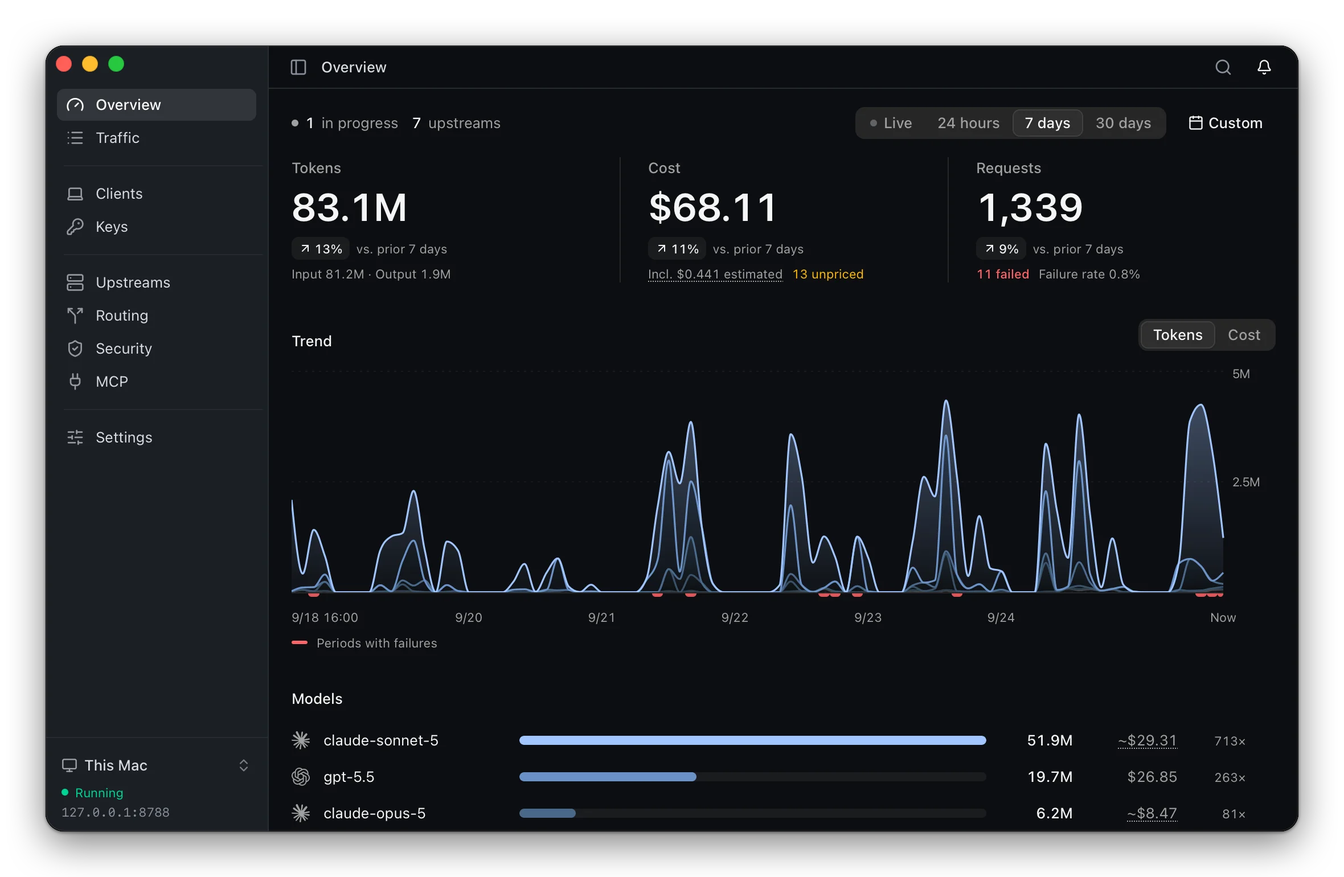
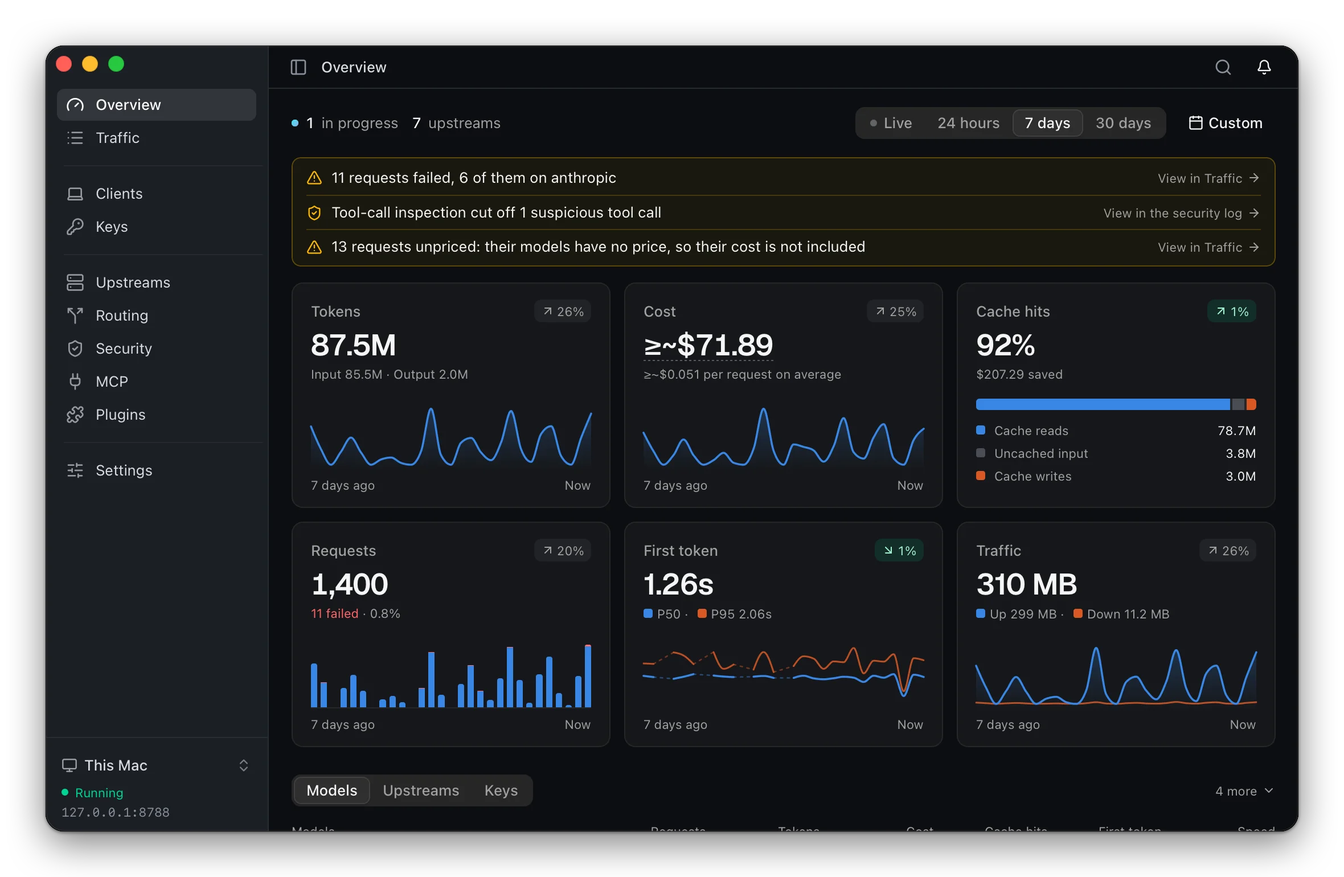
Docs for Lite 2026.10.12, core 0.68.0 and ThinkWatch 3.3.1 (#68)
* Docs for Lite 2026.10.12 and core 0.68.0

- Features (en, zh-CN): the Overview's six cards (Tokens, Cost, Cache
  hits, Requests, First token, Traffic) with their changes against the
  previous period and synced charts, the strip of what needs attention,
  and the table by model, upstream or key; upload and download on the
  Traffic table's tokens and Egress, Upload and Download in a request's
  timeline; the Content tab's live Parsed and Raw views with the client
  and upstream sides and the security hits marked; the Proxies tab's
  Traffic · 24 h column; requests in flight on the routing map; security
  log entries that open in place with every location, the rule as it
  was and what was done, export as JSON or CSV, and expiry with the
  request records; the menu bar's cost written like the token count.
- Overview (en, zh-CN): the Overview row of the pages table.
- Relay guide (en, zh-CN): an opened log entry shows the placeholder or
  the cut-off tool call.
- Lite page: the overview and traffic tiles follow the new Overview and
  the live content.

* Lite screenshots: the new Overview, and the menu bar's cost written like the token count

The overview, menu bar and connection switcher images come from Lite's
screenshot pipeline at 2026.10.12; their alt texts describe what they show.

* Lite menu bar: the cost is written $9.34

* Core docs from v0.68.0

The configuration reference and the server guide are unchanged since
v0.67.1; the snapshot now names v0.68.0.
[…]

diff --git a/src/i18n/pages/lite.ts b/src/i18n/pages/lite.ts
@@ -12,9 +12,9 @@
 // alt text changes with it.
 
 const overviewAlt = {
-  en: "The Overview page for the last 7 days: 83.1M tokens, $68.11 in cost including $0.441 estimated and 13 unpriced requests, and 1,339 requests of which 11 failed, each compared with the prior 7 days; a token trend stacked by model with the periods that had failures marked; and the models ranked by tokens",
+  en: "The Overview page for the last 7 days: notices that 11 requests failed, a suspicious tool call was cut off and 13 requests are unpriced; cards for 87.5M tokens, a cost of at least about $71.89, 92% cache hits, 1,400 requests, a 1.26 s median first token and 310 MB of traffic, each with the change against the prior 7 days and a chart or breakdown; and the statistics by model below",
   "zh-CN":
-    "概览页（最近 7 天）：token 83.1M、费用 $68.11（含估算 $0.441，13 条无法计价）、请求 1,339 次（失败 11 次），均与上一个 7 天对比；按模型分层的 token 趋势，并标出存在失败的时段；以及按 token 排序的模型列表",
+    "概览页（最近 7 天）：提示 11 次请求失败、切断了 1 个可疑工具调用、13 条请求无法计价；token 87.5M、费用不低于约 $71.89、缓存命中 92%、请求 1,400 次、首 token 中位数 1.26 秒、流量 310 MB 六张卡片，各带与上一个 7 天的对比和趋势图或构成；下方是按模型的统计",
 } as const;
 
 export const liteCopy = {
@@ -136,7 +136,7 @@ export const liteCopy = {
         {
           id: "traffic",
           title: "Every request, traceable",
-          body: "A request shows the rule it matched, each upstream it tried, any conversion between API formats and how its cost was calculated. A finished request can be replayed against another upstream and the two answers compared side by side, and the whole history can be searched, including the text of requests and answers.",
+          body: "A request shows the rule it matched, each upstream it tried, any conversion between API formats and how its cost was calculated, and its content can be read live while the answer streams. A finished request can be replayed against another upstream and the two answers compared side by side, and the whole history can be searched, including the text of requests and answers.",
           alt: "The Traffic page: each request with its key, model, upstream, time to first token, total time, tokens and cost, with marks for converted formats, redacted keys and a blocked request, and one request answered locally by the gateway",
         },
         {
@@ -154,7 +154,7 @@ export const liteCopy = {
         {
           id: "overview",
           title: "Costs stated as they are",
-          body: "Tokens, cost, cache savings, time to first token and generation speed, by model and by upstream. Estimated amounts are marked, and requests without a price are counted separately instead of as zero; prices follow LiteLLM's public list, refreshed daily, or a custom price sheet.",
+          body: "Tokens, cost, cache hits, requests, time to first token and traffic on one screen, each against the previous period and broken down by model, upstream or key. Estimated amounts are marked, and requests without a price are counted separately instead of as zero; prices follow LiteLLM's public list, refreshed daily, or a custom price sheet.",
           alt: overviewAlt.en,
         },
         {
@@ -209,7 +209,7 @@ export const liteCopy = {
         "A system notification reports a gateway that stopped forwarding, a lost remote connection, a quota that ran out, a credential that stopped working, an unreachable proxy, configuration that did not take effect, a dangerous tool call that was cut off, and suspicious content in client configuration.",
       chipAlt: "The menu bar item: the ThinkWatch mark with today's 13.3M tokens above today's cost, $9.34",
       menuAlt:
-        "The menu bar menu: the gateway's address, output speed and state; the ChatGPT account's 5-hour and weekly quotas with their reset times; today's requests, tokens and cost; the request in progress; and items to open the app, copy the gateway address or the default key, switch connection, open settings and check for updates",
+        "The menu bar menu: an item to open ThinkWatch Lite; today's 13.3M tokens, 204 requests of which 4 failed and $9.34, with the gateway's state and output speed; the ChatGPT account's 5-hour and weekly quotas with their reset times; the request in progress; and items to copy the gateway address or the default key, open settings, switch connection, check for updates and quit",
     },
     built: {
       eyebrow: "Architecture",
@@ -379,7 +379,7 @@ export const liteCopy = {
         {
           id: "traffic",
           title: "每个请求都可追溯",
-          body: "请求详情给出命中的规则、尝试过的每个上游、API 格式转换，以及费用的计算依据。已结束的请求可以重放到另一个上游，并排对比两次回答；全部请求记录都可以搜索，包括请求与回答的内容。",
+          body: "请求详情给出命中的规则、尝试过的每个上游、API 格式转换，以及费用的计算依据，回答生成期间即可实时查看请求与回答的内容。已结束的请求可以重放到另一个上游，并排对比两次回答；全部请求记录都可以搜索，包括请求与回答的内容。",
           alt: "流量页：逐条列出请求的密钥、模型、上游、首 token 时间、总耗时、token 与费用，标出格式转换、密钥脱敏与被拦截的请求，其中一条由网关在本地应答",
         },
         {
@@ -397,7 +397,7 @@ export const liteCopy = {
         {
           id: "overview",
           title: "费用如实计算",
-          body: "按模型与上游统计 token、费用、缓存节省、首 token 时间与生成速度。估算的金额单独标注，无法计价的请求单独计数，不按零计入；价格每日按 LiteLLM 公开价更新，也可以使用自定义价目表。",
+          body: "token、费用、缓存命中、请求、首 token 时间与流量集中在一屏，均与上一个区间对比，并可按模型、上游或密钥查看明细。估算的金额单独标注，无法计价的请求单独计数，不按零计入；价格每日按 LiteLLM 公开价更新，也可以使用自定义价目表。",
           alt: overviewAlt["zh-CN"],
         },
         {
@@ -451,7 +451,7 @@ export const liteCopy = {
         "网关停止转发、远程连接断开、额度用完、凭据失效、代理无法连接、配置未能生效、危险工具调用被切断，以及客户端配置中出现可疑内容时，应用发送系统通知。",
       chipAlt: "菜单栏：ThinkWatch 标识，右侧上行为今日 token 13.3M，下行为今日费用 $9.34",
       menuAlt:
-        "菜单栏菜单：网关地址、输出速率与状态；ChatGPT 账号的 5 小时与每周额度及重置时间；今日请求数、token 与费用；进行中的请求；以及打开主界面、复制网关地址、复制默认密钥、切换连接、设置与检查更新等菜单项",
+        "菜单栏菜单：打开主界面；今日 token 13.3M、请求 204 次（失败 4 次）、费用 $9.34，以及网关状态与输出速率；ChatGPT 账号的 5 小时与每周额度及重置时间；进行中的请求；以及复制网关地址、复制默认密钥、设置、切换连接、检查更新与退出等菜单项",
     },
     built: {
       eyebrow: "架构",

diff --git a/src/i18n/pages/home.ts b/src/i18n/pages/home.ts
@@ -91,7 +91,7 @@ export const homeCopy = {
       ],
       pills: ["Available", "macOS (Apple silicon)", "Windows (x64, ARM64)", "Linux (x86_64, aarch64)"],
       shotAlt:
-        "The Overview page for the last 7 days: 83.1M tokens, $68.11 in cost including $0.441 estimated and 13 unpriced requests, and 1,339 requests of which 11 failed, each compared with the prior 7 days; a token trend stacked by model with the periods that had failures marked; and the models ranked by tokens",
+        "The Overview page for the last 7 days: notices that 11 requests failed, a suspicious tool call was cut off and 13 requests are unpriced; cards for 87.5M tokens, a cost of at least about $71.89, 92% cache hits, 1,400 requests, a 1.26 s median first token and 310 MB of traffic, each with the change against the prior 7 days and a chart or breakdown; and the statistics by model below",
       cta: "Explore ThinkWatch Lite",
     },
     core: {
@@ -219,7 +219,7 @@ export const homeCopy = {
       ],
       pills: ["已发布", "macOS（Apple silicon）", "Windows（x64、ARM64）", "Linux（x86_64、aarch64）"],
       shotAlt:
-        "概览页（最近 7 天）：token 83.1M、费用 $68.11（含估算 $0.441，13 条无法计价）、请求 1,339 次（失败 11 次），均与上一个 7 天对比；按模型分层的 token 趋势，并标出存在失败的时段；以及按 token 排序的模型列表",
+        "概览页（最近 7 天）：提示 11 次请求失败、切断了 1 个可疑工具调用、13 条请求无法计价；token 87.5M、费用不低于约 $71.89、缓存命中 92%、请求 1,400 次、首 token 中位数 1.26 秒、流量 310 MB 六张卡片，各带与上一个 7 天的对比和趋势图或构成；下方是按模型的统计",
       cta: "了解 ThinkWatch Lite",
     },
     core: {

diff --git a/src/content/docs-lite/en/features.md b/src/content/docs-lite/en/features.md
@@ -6,7 +6,9 @@ The main window has ten pages: Overview, Traffic, Clients, Keys, Upstreams, Rout
 
 ## Usage and cost
 
-The Overview page reports tokens, cost and requests for the last 24 hours, 7 days, 30 days or a custom range, each against the period before; a live view follows the last ten minutes. A trend chart stacks tokens or cost by model, and the model ranking beneath it opens the matching requests. Further sections cover the prompt cache (hit rate, the net savings it brought and the hit rate per model), latency (median and 95th-percentile time to first token, per model and per upstream), generation speed (median tokens per second, per model and per upstream) and what each protection found.
+The Overview page covers the last 24 hours, 7 days, 30 days or a custom range on one screen of six cards: **Tokens**, **Cost**, **Cache hits**, **Requests**, **First token** and **Traffic**. Each card gives its figure and the change against the previous period of the same length. All but Cache hits carry a small chart of the period; hovering any chart shows the same point in time on every chart, and the value appears on the card under the pointer. **Cache hits** shows the hit rate, the net savings the cache brought, and how input was split between cache reads, uncached input and cache writes. **First token** charts the median and the 95th percentile of the time to first token, and stretches without requests are bridged with a faint dashed line. **Traffic** is what requests sent to their upstreams and received from them (see [Traffic and sessions](#traffic-and-sessions)), with upload and download charted separately.
+
+A strip above the cards lists what needs attention: failed requests, tool calls that were cut off, upstreams that cannot be used (circuit open, credentials rejected or sign-in required), and unpriced requests, each with a link to the page that deals with it. It is hidden when there is nothing to list. The table below the cards lists the requests, tokens, cost, cache hits, first token and generation speed by model, upstream or key (generation speed by model and by upstream only), and a row opens the matching requests in Traffic. In **Live**, the Tokens, Cost and Requests cards follow the last ten minutes, while the other cards, the strip and the table cover the last 24 hours.
 
 The cost figure states how much of it is estimated, for instance for a response that was cut off before it finished. Requests whose model has no price, and requests whose upstream reported no usage, are counted separately and never added in as zero. Prices come from price sheets: the default one follows LiteLLM's public prices and is refreshed once a day, and a custom one applies a multiplier and its own prices for particular models, as needed for a relay whose prices differ from the official ones. A subscription account such as a ChatGPT sign-in is priced from the price sheet like any other upstream, and an upstream such as a local model can be set to free. Each request's cost is fixed when the request finishes, and the request records the price sheet and the date of the prices it was costed with.
 
@@ -14,9 +16,11 @@ Until the first request has gone to an upstream, the Overview page shows a get-s
 
 ## Traffic and sessions
 
-The Traffic page lists requests as they arrive: status, key, model, upstream, time to first token and total time (with the generation speed on hover), tokens and cost, with marks for a converted API format, redacted keys, text deleted by the content filter and a blocked or suspicious tool call. Long upstream, model and key names are cut short, and hovering shows them in full. The list can be searched (path, key, upstream, model and error message), filtered by key, upstream and model, or narrowed to failed or unpriced requests. It holds the latest 2,000 requests, and a search or filter also runs over the stored history, further back on request. With content search on, it also covers what each request newly sent (the last user turn, tool results included) and its answer (tool calls included), for as long as payloads are kept; a match shows its excerpt under the request. The Sessions view groups the requests of one conversation into turns, with the input tokens and the cost of each turn. A session's Conversation tab replays it turn by turn: the messages each turn added and its answer, with text, folded thinking, tool calls beside their results, and images by type and size. Changes to the system prompt and restarts after compaction are marked, and a turn whose bodies are past retention, were too large to keep whole or cannot be read says so. Each turn opens its request.
+The Traffic page lists requests as they arrive: status, key, model, upstream, time to first token and total time (with the generation speed on hover), tokens (with the upload and download on hover) and cost, with marks for a converted API format, redacted keys, text deleted by the content filter and a blocked or suspicious tool call. Long upstream, model and key names are cut short, and hovering shows them in full. The list can be searched (path, key, upstream, model and error message), filtered by key, upstream and model, or narrowed to failed or unpriced requests. It holds the latest 2,000 requests, and a search or filter also runs over the stored history, further back on request. With content search on, it also covers what each request newly sent (the last user turn, tool results included) and its answer (tool calls included), for as long as payloads are kept; a match shows its excerpt under the request. The Sessions view groups the requests of one conversation into turns, with the input tokens and the cost of each turn. A session's Conversation tab replays it turn by turn: the messages each turn added and its answer, with text, folded thinking, tool calls beside their results, and images by type and size. Changes to the system prompt and restarts after compaction are marked, and a turn whose bodies are past retention, were too large to keep whole or cannot be read says so. Each turn opens its request.
 
-A request opens into its timeline, its routing (the rule it matched, the group it went through and each attempt with its status and duration), the request and response bodies, and its usage and cost. A request from DeepSeek Harness also shows the size of the session log it carried, the whole conversation the client attaches to every request; the gateway removes it before a request goes to an upstream other than DeepSeek. A finished request can be sent again, unchanged, to another upstream after an estimate of its cost, and the two responses are shown side by side.
+A request opens into its timeline, its routing (the rule it matched, the group it went through and each attempt with its status and duration), its content, and its usage and cost. The timeline gives the proxy the request went out through (**Egress**, or **Direct**) and how much it sent to its upstreams and received from them (**Upload** and **Download**), measured as it crossed the network: after the gateway's own compression, before decoding, and summed over failover attempts. A request from DeepSeek Harness also shows the size of the session log it carried, the whole conversation the client attaches to every request; the gateway removes it before a request goes to an upstream other than DeepSeek. A finished request can be sent again, unchanged, to another upstream after an estimate of its cost, and the two responses are shown side by side.
+
+The **Content** tab has two views, **Parsed** and **Raw**, and both are live while the request runs. **Parsed** shows the conversation, with the answer appearing as it streams, thinking and tool-call arguments included. **Raw** shows the request and response lines, headers and bodies, with each streamed event appended as it arrives; **Follow latest** keeps the newest in view. In Raw, **Client side** and **Upstream side** show what the client and the upstream each exchanged with the gateway, which differ when the API format is converted or a plugin rewrites the request. Keys are replaced in both views, as in stored requests. The places a security rule matched are marked in both views, in the colors of the security log, and a folded part that holds one carries a dot.
 
 The attempts also show an upstream passed over at its concurrency limit (**At its concurrency limit**), the time spent waiting for a free slot, an upstream given up because it sent no content within the no-response timeout (**No response · 300 s** at the default), with the input tokens that upstream may have billed for it, and the attempt under way when a request was aborted (**Aborted**). A request refused by its key's usage limit, or because every upstream stayed at its concurrency limit, shows **Usage limit** or **At capacity** in place of an upstream, and a connection in the Responses API's WebSocket mode is listed one request per turn, each with its own usage and cost.
 
@@ -41,7 +45,7 @@ Usage limits keep one client from using up a budget: each caps the key at a numb
 
 ## Upstreams
 
-Upstreams are the services requests are forwarded to: API keys for Anthropic, OpenAI, Google Gemini, DeepSeek or any compatible endpoint, Amazon Bedrock (with an API key, access keys or an AWS profile), a ChatGPT account or a Z.ai / BigModel account signed in from the app, relays such as OpenRouter, and local models such as Ollama. A ChatGPT account shows its usage limits and reset times. So does an upstream on a GLM Coding Plan, that is, one whose address is on `api.z.ai` or `open.bigmodel.cn`, whether it was signed in from the app or added with a key: its 5-hour and weekly limits and, on a plan billed in credits, the credits left (“1,976 / 2,000 credits left”). When a client and an upstream use different API formats, requests are converted between Anthropic Messages, OpenAI Chat Completions, OpenAI Responses and Gemini, and the fields that cannot be carried over are listed on the request. Clients such as Codex mark no prompt-cache breakpoints; when their requests are converted for an upstream in Anthropic Messages format, or for a Claude model on Bedrock that AWS lists for prompt caching (Claude 3.5 Sonnet v2, Claude 3.7 Sonnet, and Claude 4.5 and later), the gateway marks them, so each turn reads what the previous one cached. An upstream that refuses the marks receives the request again without them. Upstreams can be reached through an outbound proxy and priced with a price sheet of their own; aliases, proxies and price sheets have tabs on the same page. An optional **Concurrency limit** suits relays and accounts that allow only so many requests at once: when the upstream is full, a conversation that stays on it waits for a free slot, other requests go to the next upstream, and when every upstream is full a request waits and then receives a busy error. **Specs…** in an upstream's model list sets by hand a model's context window, maximum output, and whether it reasons and takes images, for a model the price table lacks or gets wrong; the values set there are used in place of the price table's. A connection test times the DNS lookup and the TCP, TLS and proxy handshakes without incurring any cost; an inference test measures the time to first token and estimates its cost before it runs.
+Upstreams are the services requests are forwarded to: API keys for Anthropic, OpenAI, Google Gemini, DeepSeek or any compatible endpoint, Amazon Bedrock (with an API key, access keys or an AWS profile), a ChatGPT account or a Z.ai / BigModel account signed in from the app, relays such as OpenRouter, and local models such as Ollama. A ChatGPT account shows its usage limits and reset times. So does an upstream on a GLM Coding Plan, that is, one whose address is on `api.z.ai` or `open.bigmodel.cn`, whether it was signed in from the app or added with a key: its 5-hour and weekly limits and, on a plan billed in credits, the credits left (“1,976 / 2,000 credits left”). When a client and an upstream use different API formats, requests are converted between Anthropic Messages, OpenAI Chat Completions, OpenAI Responses and Gemini, and the fields that cannot be carried over are listed on the request. Clients such as Codex mark no prompt-cache breakpoints; when their requests are converted for an upstream in Anthropic Messages format, or for a Claude model on Bedrock that AWS lists for prompt caching (Claude 3.5 Sonnet v2, Claude 3.7 Sonnet, and Claude 4.5 and later), the gateway marks them, so each turn reads what the previous one cached. An upstream that refuses the marks receives the request again without them. Upstreams can be reached through an outbound proxy and priced with a price sheet of their own; aliases, proxies and price sheets have tabs on the same page. The **Traffic · 24 h** column of the **Proxies** tab gives the upload and download through each proxy over the last 24 hours, with 7 and 30 days on hover. An optional **Concurrency limit** suits relays and accounts that allow only so many requests at once: when the upstream is full, a conversation that stays on it waits for a free slot, other requests go to the next upstream, and when every upstream is full a request waits and then receives a busy error. **Specs…** in an upstream's model list sets by hand a model's context window, maximum output, and whether it reasons and takes images, for a model the price table lacks or gets wrong; the values set there are used in place of the price table's. A connection test times the DNS lookup and the TCP, TLS and proxy handshakes without incurring any cost; an inference test measures the time to first token and estimates its cost before it runs.
 
 An upstream's models are the ones it lists plus any added by hand. Upstreams often leave out models they serve: an account backend hides newer models, a relay lists only some. **Add models…** in an upstream's model list adds such models by their exact IDs, several at a time. An ID cannot contain `*` or `?` or have spaces around it, is at most 256 characters, and is added once; the dialog points out an ID that breaks these rules, or one the upstream already lists, before saving. A model added by hand is marked **Manual**, and routing and failover, aliases, routing rules that name a model, a key's allowed models, the model list clients see, the dry run and the speed test all treat it like a listed model. The summary at the top of the list counts the models the upstream lists apart from those added by hand. Hovering over a manual model shows **Remove**, which takes effect at once, with **Undo** in the message that follows. The **Models** section of the **New upstream** and **Edit upstream** dialogs ends with the same input, for an upstream with or without a list, so models can also be added while it is created or edited. They are saved with the rest of the upstream, and with **Selected models** a model added there is enabled at once. For an upstream that lists no models, the models added by hand are its whole list.
 
@@ -55,7 +59,7 @@ A relay or vendor can hand out an import link, `thinkwatch://import?…` or its 
 
 ## Routing and failover
 
-Each key follows a route, and keys without one follow the default route. A route is a list of rules evaluated in order. A rule matches on the model, the key, the client's API format, input tokens, `max_tokens`, the number of tools, images, extended thinking, streaming, prompt caching or the kind of auxiliary request; it then forwards the request to an upstream, a group or specified models, or refuses it, and can rewrite the model, `max_tokens` or extended thinking. Specified models name an upstream and one of its models, with backups tried in order, and send the model as written; to have one client use one model under another model's name, a rule on that client's key does it without changing what the name means for other clients. A model condition written for an upstream model also matches the aliases that list it. Setting `max_tokens` caps the length of answers: the upstream stops at that point by itself, without an error. A group puts several upstreams behind one name and decides the order in which they are tried: as listed, manually selected, in turn, lowest latency first or lowest cost first. In a round-robin group each member has a weight from 1 to 100, its long-run share of requests, and **Distribute by** can multiply the weights by each upstream's speed (time to first token), its reliability (recent success rate) or both; conversations in progress stay on their upstream. When an attempt fails, the request moves on to the next upstream, and by default a session stays on one upstream so that its prompt cache keeps hitting. An upstream that sends no content for the **No-response timeout** in Settings › Failover, 300 seconds by default, is given up on; keep-alive pings do not count as content. Before anything has reached the client, the request moves to the next upstream, and when none is left the client receives a timeout error; once the answer has started, it ends with an error. A map at the top of the page traces every key through its route and groups to the upstreams.
+Each key follows a route, and keys without one follow the default route. A route is a list of rules evaluated in order. A rule matches on the model, the key, the client's API format, input tokens, `max_tokens`, the number of tools, images, extended thinking, streaming, prompt caching or the kind of auxiliary request; it then forwards the request to an upstream, a group or specified models, or refuses it, and can rewrite the model, `max_tokens` or extended thinking. Specified models name an upstream and one of its models, with backups tried in order, and send the model as written; to have one client use one model under another model's name, a rule on that client's key does it without changing what the name means for other clients. A model condition written for an upstream model also matches the aliases that list it. Setting `max_tokens` caps the length of answers: the upstream stops at that point by itself, without an error. A group puts several upstreams behind one name and decides the order in which they are tried: as listed, manually selected, in turn, lowest latency first or lowest cost first. In a round-robin group each member has a weight from 1 to 100, its long-run share of requests, and **Distribute by** can multiply the weights by each upstream's speed (time to first token), its reliability (recent success rate) or both; conversations in progress stay on their upstream. When an attempt fails, the request moves on to the next upstream, and by default a session stays on one upstream so that its prompt cache keeps hitting. An upstream that sends no content for the **No-response timeout** in Settings › Failover, 300 seconds by default, is given up on; keep-alive pings do not count as content. Before anything has reached the client, the request moves to the next upstream, and when none is left the client receives a timeout error; once the answer has started, it ends with an error. A map at the top of the page traces every key through its route and groups to the upstreams, and requests in flight move along their path from the key to the upstream.
 
 Auxiliary requests that clients send on their own (health checks, warm-ups, titles, topic detection and input suggestions) can be answered locally at no cost, or forwarded. Forwarded ones go through the routing rules like any other request, and a rule can send a given kind to a lower-cost upstream.
 
@@ -70,6 +74,8 @@ The Security page holds three protections: outbound redaction, tool-call inspect
 - **Content filter** checks the user messages and tool results in each request, context compaction included. A rule matches a keyword, a regular expression or code points such as `U+E0000–U+E007F`, and in Enforce mode it refuses the request, deletes the matched text and sends the rest, or only records. Built-in rules delete Unicode tag characters and bidirectional controls, which can hide instructions from people but not from a model, and refuse explicit "ignore previous instructions" phrasing. Rules for zero-width and private-use characters, which emoji, Persian text and icon fonts also use, and for jailbreaks, persona manipulation, prompt extraction and their Chinese counterparts start off and can be switched on.
 
 The page lists every rule, the built-in ones grouped by kind. Built-in rules can be switched on or off one at a time; a built-in tool-call rule can be set to cut off or only record, and a built-in content rule to refuse, delete or only record. Custom rules are regular expressions, or for the content filter also keywords or code points. Any rule can be tried on a sample text first; for redaction and the content filter, the test also shows the text as it would be sent. Everything the protections find is kept in the log on the first tab, together with the request it came from; when hidden characters spell out text, the log shows that text.
+
+An entry in the log opens in place. It lists every place the rule matched, up to 50 with the number of the rest: the part of the request or answer it was in (the system prompt, a message with its number and role, a tool call or tool result with the tool's name, or the answer text), its JSON path, and up to 80 characters of context on either side, with credentials masked. It gives the rule as it was when it matched, a custom rule's pattern or a built-in rule's name with the core version that evaluated it, so the entry stays readable after the rule is changed or deleted. It states exactly what was done: the placeholder a value was replaced with, the tool call that was cut off and the notice the client received instead, the reply the client received for a refused request, or how many matched segments were deleted. The session and, when it differs from the model requested, the model sent to the upstream are given as well. The entries in a request's timeline open the same way. **Export** saves every entry of the selected period as JSON (full detail) or CSV (one row per entry). The log is kept as long as the request records, and changes to the protections' settings are not written to it.
 
 The protections act on requests and answers passing through the gateway, not on files on disk. The configuration file holds keys in plain text and only its owner can read it, which keeps out other users but not programs running as the same user; outbound redaction protects what leaves the machine, not the file.
 
@@ -89,11 +95,11 @@ Plugins are short JavaScript files that change requests before they go to an ups
 
 ## Settings
 
-Settings has seven sections. Connection lists the local core and the saved remote cores, described in [Connecting to a remote core](/docs/lite/remote-core). General sets the language, the appearance, what the menu bar item shows on macOS (or that it is hidden), launch at login, whether notices arrive as system notifications, in the app only or not at all, and shows hidden guidance hints again. Listening sets who can reach the gateway (this machine only, the local network of a chosen interface, or every interface), its port and the allowed address ranges. Failover sets how long a failing upstream is paused before requests go to the next one: after how many consecutive failures, for how long, and separate pauses for an insufficient balance, a used-up quota and rate limits. It also sets the no-response timeout, after which an upstream that has sent no content is given up on (300 seconds by default, from 30 to 3,600), and how long in total a request may wait for a free slot on a full upstream or for a key's per-minute or per-hour limit, 30 seconds by default. Log retention sets how long request payloads and request records are kept, and a size cap for payloads. About shows the version, checks for updates and produces a diagnostics bundle with keys and addresses masked. Uninstall restores every connected client and removes the autostart entry, and is meant to be run before the app is deleted.
+Settings has seven sections. Connection lists the local core and the saved remote cores, described in [Connecting to a remote core](/docs/lite/remote-core). General sets the language, the appearance, what the menu bar item shows on macOS (or that it is hidden), launch at login, whether notices arrive as system notifications, in the app only or not at all, and shows hidden guidance hints again. Listening sets who can reach the gateway (this machine only, the local network of a chosen interface, or every interface), its port and the allowed address ranges. Failover sets how long a failing upstream is paused before requests go to the next one: after how many consecutive failures, for how long, and separate pauses for an insufficient balance, a used-up quota and rate limits. It also sets the no-response timeout, after which an upstream that has sent no content is given up on (300 seconds by default, from 30 to 3,600), and how long in total a request may wait for a free slot on a full upstream or for a key's per-minute or per-hour limit, 30 seconds by default. Log retention sets how long request payloads and request records are kept, and a size cap for payloads; the security log expires with the request records. About shows the version, checks for updates and produces a diagnostics bundle with keys and addresses masked. Uninstall restores every connected client and removes the autostart entry, and is meant to be run before the app is deleted.
 
 ## Menu bar, system tray and notifications
 
-On macOS the menu bar shows today's tokens above today's cost; the numbers turn orange when a subscription quota is nearly used up and red when it is. **Menu bar** in Settings › General can reduce the item to the icon or to the numbers, or set it to **Hidden**, which takes it off the menu bar: the gateway keeps running in the background, after a launch at login as well, and opening ThinkWatch Lite again from Finder or Spotlight shows the main window.
+On macOS the menu bar shows today's tokens above today's cost, written as a plain number without the ≥ and ~ marks, as short as the token count ($41.20); the opened menu marks a cost that includes estimates or is only a lower bound. The numbers turn orange when a subscription quota is nearly used up and red when it is. **Menu bar** in Settings › General can reduce the item to the icon or to the numbers, or set it to **Hidden**, which takes it off the menu bar: the gateway keeps running in the background, after a launch at login as well, and opening ThinkWatch Lite again from Finder or Spotlight shows the main window.
 
 Clicking it opens a native menu. **Open ThinkWatch Lite** always comes first, followed by unread notices and a **Today** block: today's tokens in large type, with requests, failures and cost on the line below and a small chart of tokens per hour beside them. The block's top line gives the gateway's state, the server's name when connected to a remote core, and the generation speed over the last minute. Below it, each quota window an upstream reports has a row with how much is used and when it resets (subscription accounts and GLM Coding Plan upstreams; a plan billed in credits shows the credits left under the bar), followed by the requests in progress. The actions come last: choosing the upstream of a manually selected group, copying the gateway address, which is shown beside the item, or the default key, installing a new version when one is available, settings, switching connections and checking for updates, all without opening the main window.
 

diff --git a/src/content/docs-lite/en/keep-api-keys-from-relays.md b/src/content/docs-lite/en/keep-api-keys-from-relays.md
@@ -14,7 +14,7 @@ A relay receives every request in full, including keys that end up in the conver
 3. For a key format the built-in rules do not cover, choose **New rule**, enter a **Name**, a pattern under **Match (regular expression)** and a **Placeholder name** such as `INTERNAL` (giving `<<TW_INTERNAL_1>>`), then choose **Create**.
 4. Set the mode at the top of the tab to **Replace**.
 5. Open **Tool calls**. Each built-in rule is marked **Cut off** or **Record only**, which **View rule** can change. Set the mode to **Cut off**.
-6. The log's **Action** column then shows **Replaced** or **Cut off**, and a cut-off call also raises a system notification.
+6. The log's **Action** column then shows **Replaced** or **Cut off**, and a cut-off call also raises a system notification. From ThinkWatch Lite 2026.10.12, an entry opens in place to show where the value was found and the placeholder it was replaced with, or the tool call that was cut off and the notice the client received.
 
 ## Notes
 

diff --git a/src/content/docs-lite/zh-CN/keep-api-keys-from-relays.md b/src/content/docs-lite/zh-CN/keep-api-keys-from-relays.md
@@ -14,7 +14,7 @@
 3. 内置规则未覆盖的密钥格式，选择「新建规则」，填写「名称」、「匹配（正则表达式）」和「占位符名称」（例如 `INTERNAL`，替换为 `<<TW_INTERNAL_1>>`），然后选择「创建」。
 4. 把标签顶部的档位切换到「替换」。
 5. 打开「工具调用审查」标签。每条内置规则的处置为「切断」或「仅记录」，可以在「查看规则」中修改。把档位切换到「切断」。
-6. 此后日志的「处置」一栏显示「已替换」或「已切断」；调用被切断时还会发送系统通知。
+6. 此后日志的「处置」一栏显示「已替换」或「已切断」；调用被切断时还会发送系统通知。自 ThinkWatch Lite 2026.10.12 起，记录可以在原处展开，显示命中的位置与替换成的占位符，或被切断的工具调用及客户端收到的提示。
 
 ## 说明
 

diff --git a/src/content/docs/zh-CN/deployment-guide.md b/src/content/docs/zh-CN/deployment-guide.md
@@ -231,7 +231,7 @@ docker compose -f deploy/docker-compose.yml --env-file .env.production up -d
 如需固定某个版本而非 `latest`，将 `IMAGE_TAG` 设为该版本号，或 `main` 分支上某次提交的 SHA：
 
 ```bash
-IMAGE_TAG=3.3.0 docker compose -f deploy/docker-compose.yml --env-file .env.production up -d
+IMAGE_TAG=3.3.1 docker compose -f deploy/docker-compose.yml --env-file .env.production up -d
 ```
 
 这将启动：
@@ -744,8 +744,8 @@ ThinkWatch 在 Web 控制台中内置了**配置指南**页面，位于 `/gatewa
 ```bash
 # Update the image tag
 helm upgrade think-watch deploy/helm/think-watch \
-  --set image.server.tag=3.3.0 \
-  --set image.web.tag=3.3.0 \
+  --set image.server.tag=3.3.1 \
+  --set image.web.tag=3.3.1 \
   --reuse-values
 ```
 

diff --git a/src/content/docs/en/deployment-guide.md b/src/content/docs/en/deployment-guide.md
@@ -231,7 +231,7 @@ docker compose -f deploy/docker-compose.yml --env-file .env.production up -d
 To pin a release instead of `latest`, set `IMAGE_TAG` to its version, or to the SHA of a commit on `main`:
 
 ```bash
-IMAGE_TAG=3.3.0 docker compose -f deploy/docker-compose.yml --env-file .env.production up -d
+IMAGE_TAG=3.3.1 docker compose -f deploy/docker-compose.yml --env-file .env.production up -d
 ```
 
 This starts:
@@ -744,8 +744,8 @@ The server is stateless, so rolling updates work out of the box:
 ```bash
 # Update the image tag
 helm upgrade think-watch deploy/helm/think-watch \
-  --set image.server.tag=3.3.0 \
-  --set image.web.tag=3.3.0 \
+  --set image.server.tag=3.3.1 \
+  --set image.web.tag=3.3.1 \
   --reuse-values
 ```
 

diff --git a/src/content/docs-lite/en/overview.md b/src/content/docs-lite/en/overview.md
@@ -19,7 +19,7 @@ ThinkWatch Lite is a local gateway for Claude Code, Codex and other AI clients, 
 
 | Page | Contents |
 |---|---|
-| Overview | Tokens, cost and requests over a period, trends by model, cache, latency, generation speed and security results |
+| Overview | Tokens, cost, cache hits, requests, time to first token and traffic over a period, what needs attention, and a breakdown by model, upstream or key |
 | Traffic | Every request, or requests grouped into sessions, with the details of each |
 | Clients | Pointing clients at the gateway, and restoring them |
 | Keys | The gateway keys clients connect with, each with its route and limits |

diff --git a/src/content/docs-lite/zh-CN/overview.md b/src/content/docs-lite/zh-CN/overview.md
@@ -19,7 +19,7 @@ ThinkWatch Lite 是 Claude Code、Codex 等 AI 客户端的本地网关，支持
 
 | 页面 | 内容 |
 |---|---|
-| 概览 | 一段时间内的 token、费用与请求数，按模型的趋势，缓存、延迟、生成速度与安全检查结果 |
+| 概览 | 一段时间内的 token、费用、缓存命中、请求、首 token 时间与流量，需要处理的事，以及按模型、上游或密钥的明细 |
 | 流量 | 逐条请求或按会话归组的请求，以及每个请求的详情 |
 | 客户端 | 把客户端指向网关，以及还原 |
 | 密钥 | 客户端连接网关所用的密钥，及其路由与限制 |
